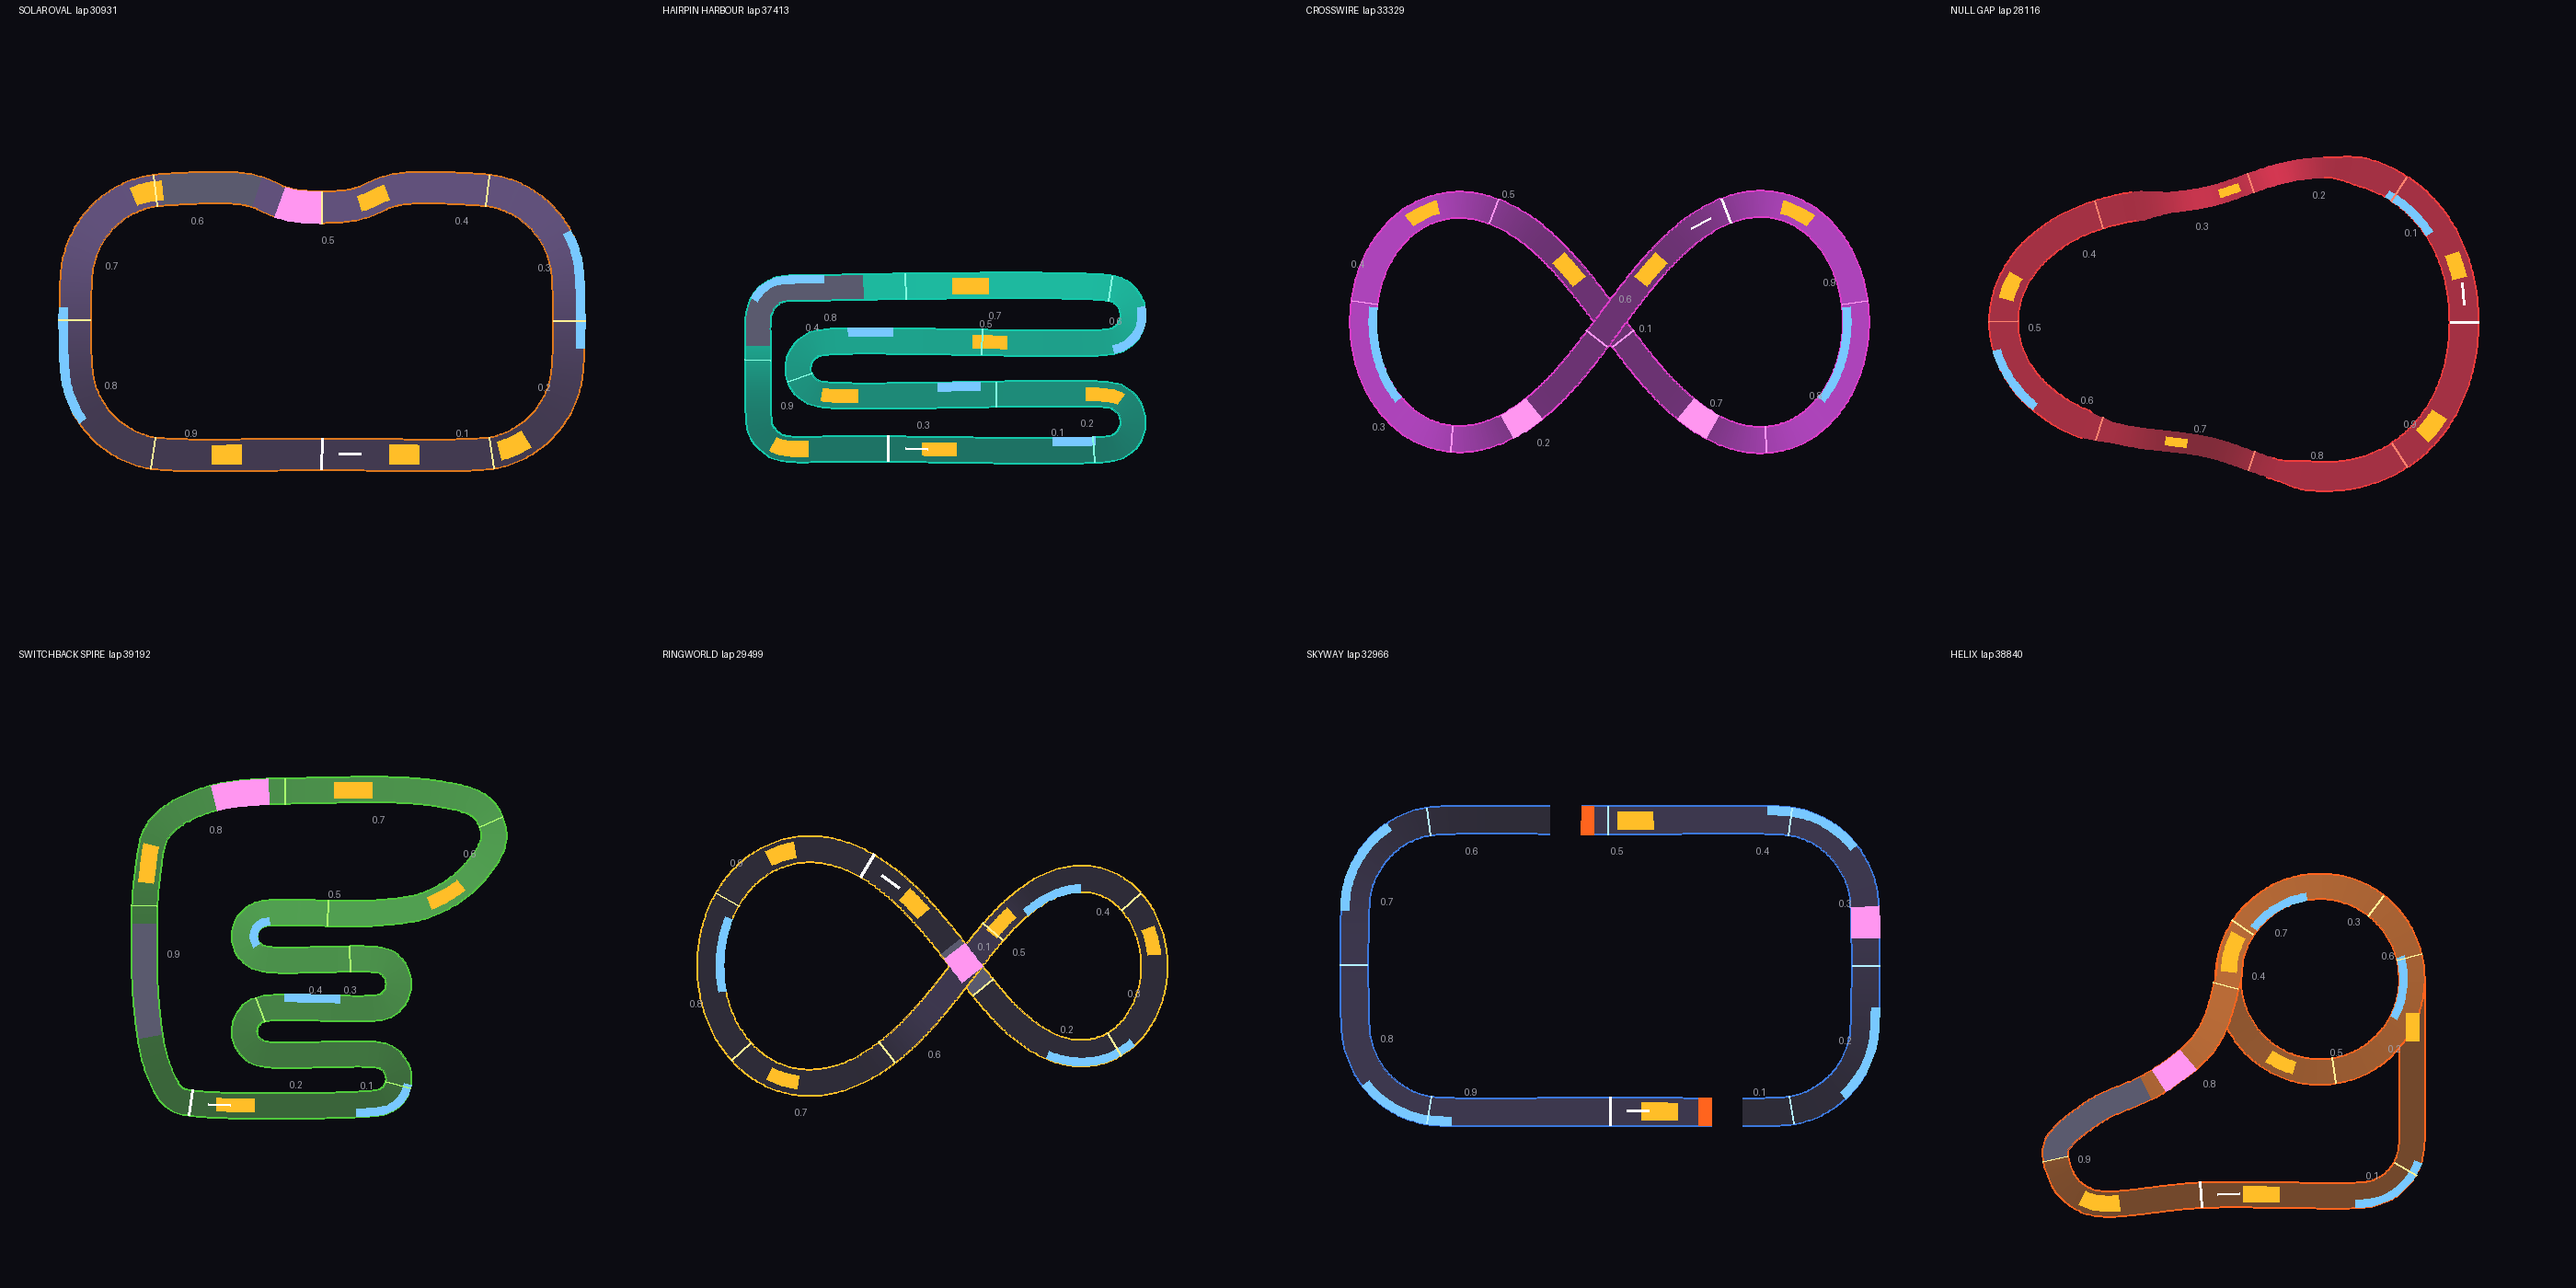
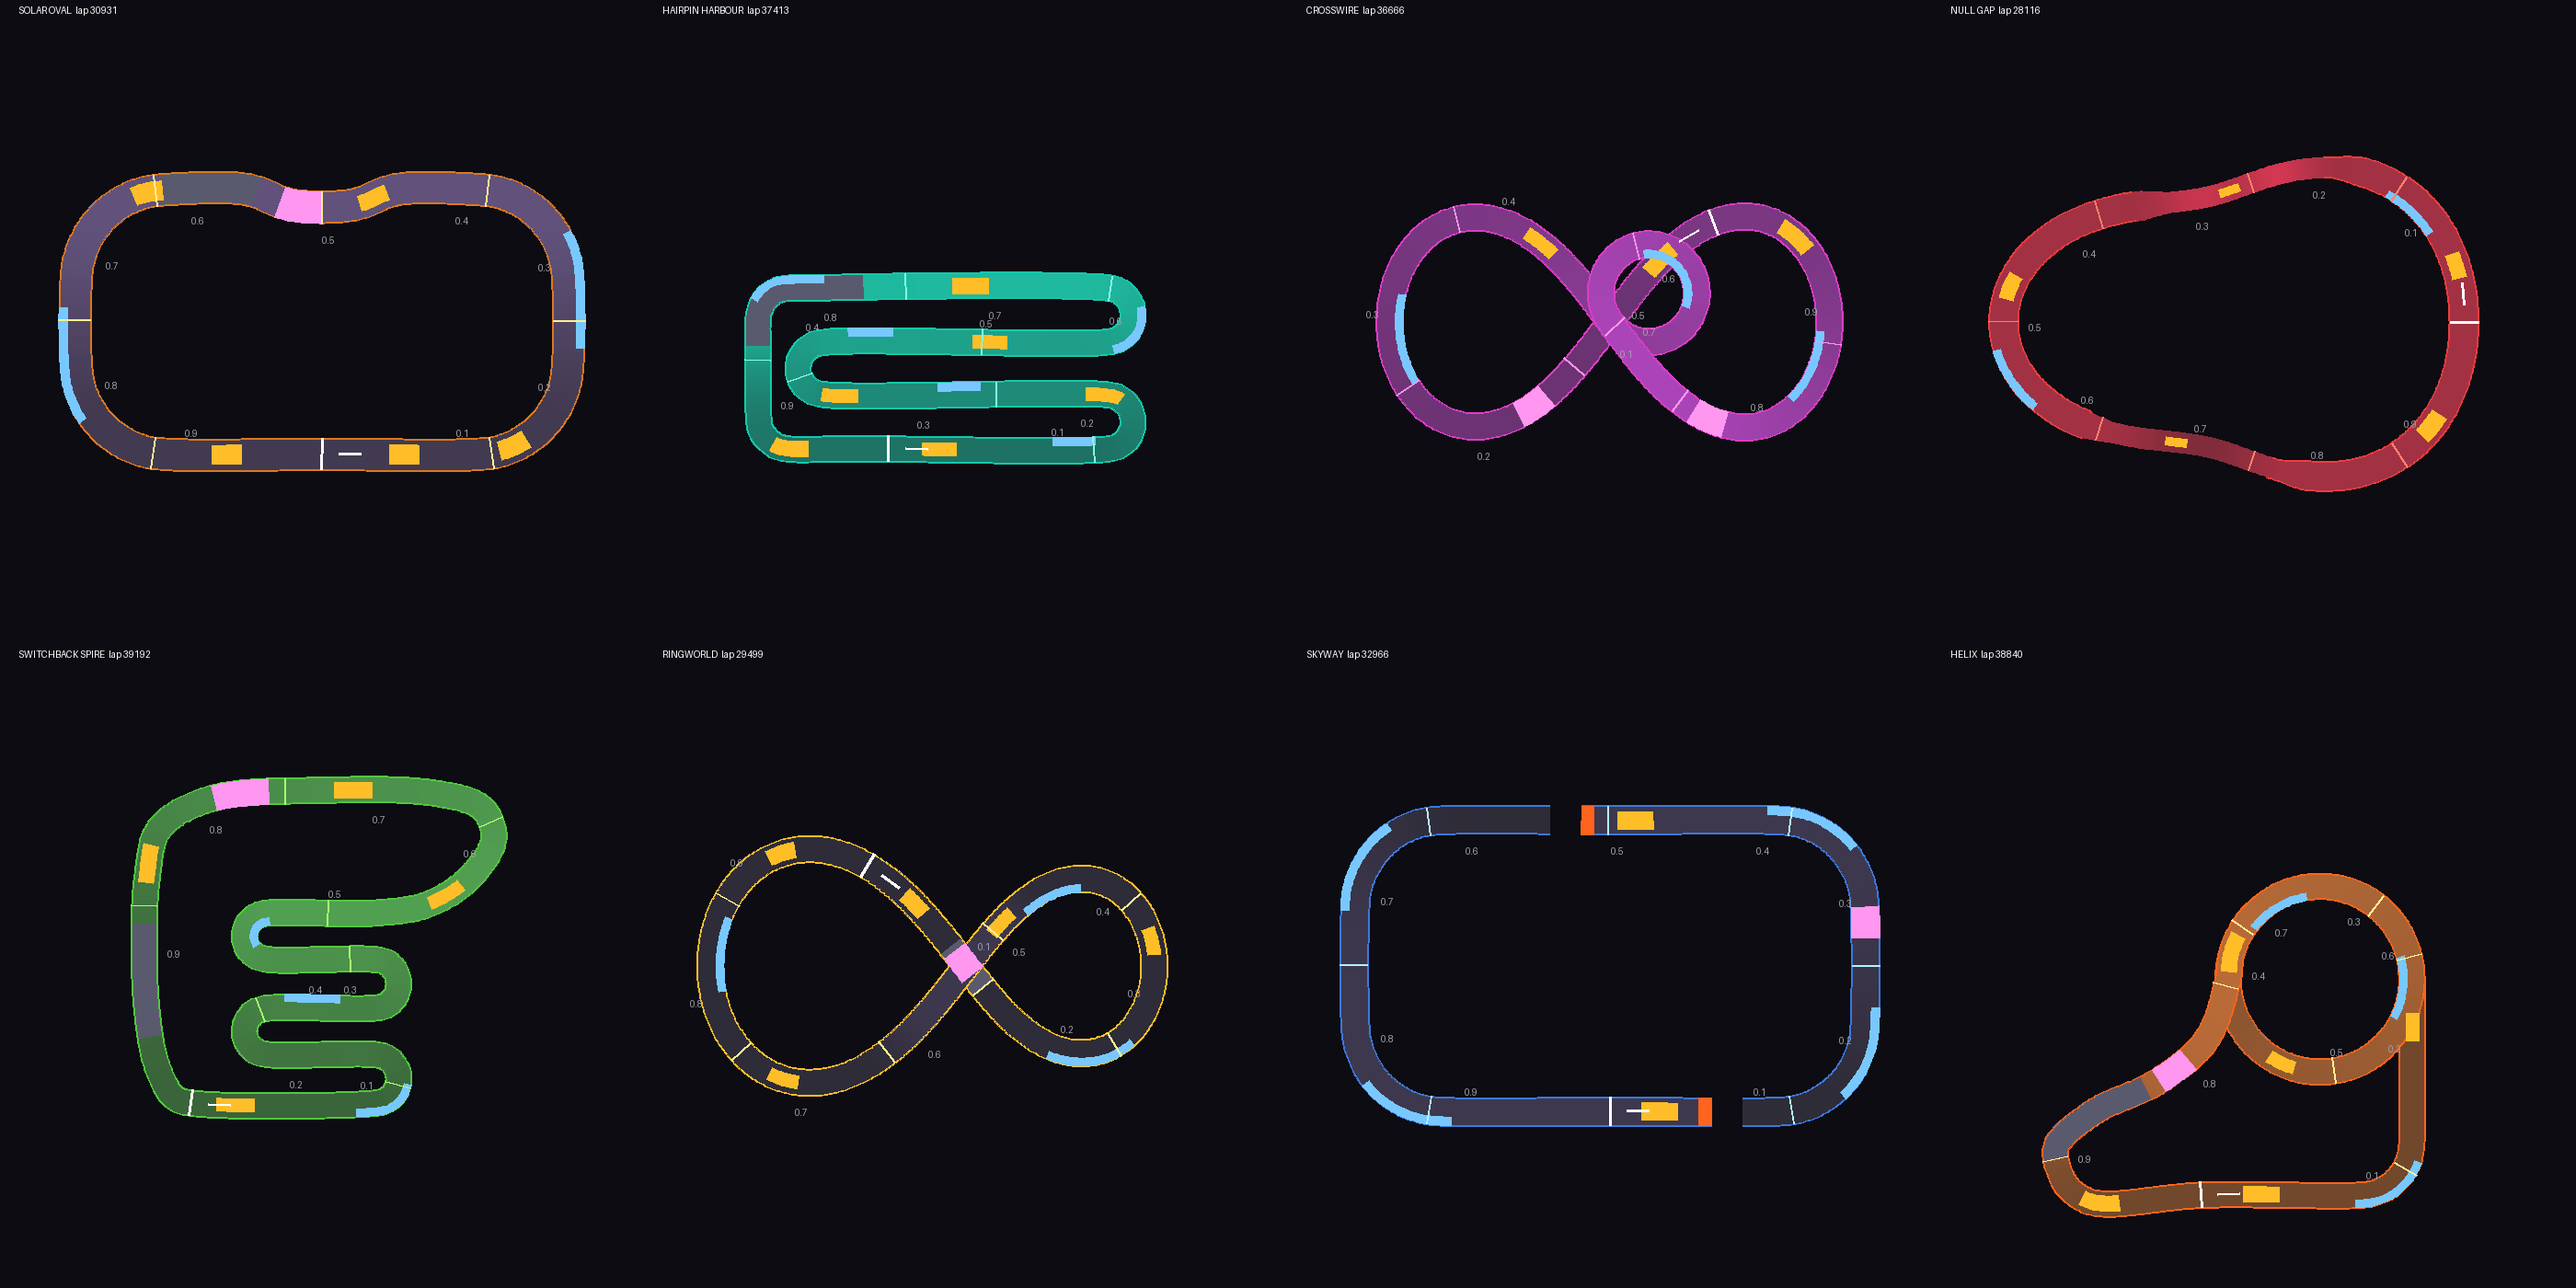
Crosswire: no level crossing - the second pass spirals round the middle
The figure-8's flat crossing z-fought and each road's rails ran across the other. Now the
first pass dives low through the middle and the second climbs into a full banked spiral loop
(radius 1100, +720) round the crossing, so the first pass threads through it (under it twice);
the second comes out over the top of itself and dives round the east lobe to the grid.
Heights come from smooth keyframes that keep every stacked deck 600+ apart; lap 36.7k, 3 laps.
- tracks.py: a level crossing is now always a build error (one road must go over the other)
- results camera rises over any road its circle passes (Crosswire's loop is near its start)
- chase_view.py: EYE / AT free camera for overview shots; mock: track=<id>

Claude-Session: https://claude.ai/code/session_01LHweMRZoWAx6s1kgPwXLL2

Changed region(s): [[0.4971, 0.1229, 0.7457, 0.3686]]

diff --git a/src/cs2/40_players.js b/src/cs2/40_players.js
@@ -166,13 +166,36 @@ function placeFlyover(pk, arena, view, now) {
   pk.camYaw = null;
 }
 
-// results / nothing to follow: a slow circle round the start gantry, high enough to see the field warp out
+// results / nothing to follow: a slow circle round the start gantry, high enough to see the field warp out, rising
+// over any road the circle passes (Crosswire's loop is close to its start). Heights per track, worked out once.
+const OV_R = 1500, OV_N = 64;
+const ovHeights = new Map();
+function overviewHeights(T) {
+  let hs = ovHeights.get(T.id);
+  if (hs) return hs;
+  const p = T.point(0);
+  hs = [];
+  for (let k = 0; k < OV_N; k++) {
+    const a = 2 * Math.PI * k / OV_N, cx = p.x + Math.cos(a) * OV_R, cy = p.y + Math.sin(a) * OV_R;
+    let h = 650;
+    for (let i = 0; i < T.n; i++) if (Math.hypot(T.x[i] - cx, T.y[i] - cy) - T.hw[i] < 500) h = Math.max(h, T.z[i] - p.z + 380);
+    hs.push(h);
+  }
+  // widen the rises a little, then smooth them so the camera eases up and down
+  hs = hs.map((_, k) => Math.max(hs[(k + OV_N - 2) % OV_N], hs[(k + OV_N - 1) % OV_N], hs[k], hs[(k + 1) % OV_N], hs[(k + 2) % OV_N]));
+  for (let pass = 0; pass < 4; pass++) hs = hs.map((v, k) => (hs[(k + OV_N - 1) % OV_N] + 2 * v + hs[(k + 1) % OV_N]) / 4);
+  ovHeights.set(T.id, hs);
+  return hs;
+}
 function placeOverviewCamera(pk, arena, view) {
   if (!live(pk.cam)) return;
   const T = arena.track;
   const p = T.point(0);
   const ang = Instance.GetGameTime() * 0.12;
-  const r = 1500, h = 650;
+  const hs = overviewHeights(T);
+  const f = (((ang / (2 * Math.PI)) % 1) + 1) % 1 * OV_N, k0 = Math.floor(f) % OV_N, w = f - Math.floor(f);
+  const h = hs[k0] + (hs[(k0 + 1) % OV_N] - hs[k0]) * w;
+  const r = OV_R;
   const pos = view.world(p.x + Math.cos(ang) * r, p.y + Math.sin(ang) * r, p.z + h);
   if (pk.camMode !== CustomCameraMode.CONTROLLED) { pk.cam.SetMode(CustomCameraMode.CONTROLLED); pk.camMode = CustomCameraMode.CONTROLLED; }
   pk.cam.Move({ position: pos, angles: { pitch: deg(Math.atan2(h - 250, r)), yaw: deg(ang + Math.PI), roll: 0 } });

diff --git a/tools/trackdefs.py b/tools/trackdefs.py
@@ -95,23 +95,58 @@ TRACKS.append(dict(id='hairpin', title='HAIRPIN HARBOUR', laps=2, theme='hairpin
     gaps=[], tunnels=[(0.775, 0.865)],
     slogans=['HAIRPIN HARBOUR', 'BRAKE LATE', 'DRIFT = CHARGE']))
 
-# 3. Crosswire: a giant figure-8 with a flat crossing in the middle; each lobe climbs to a high banked end.
-cw = []
-a = 5600
-for k in range(48):
-    t = 2 * math.pi * k / 48 + math.pi / 4
+def hermite_heights(cum, keys):
+    """height at each distance in cum from keyframes (distance, height, slope): smooth cubic pieces between them"""
+    out = []
+    for s in cum:
+        z = keys[-1][1]
+        for (s0, z0, m0), (s1, z1, m1) in zip(keys, keys[1:]):
+            if s0 <= s <= s1:
+                h = s1 - s0; t = (s - s0) / h
+                z = ((2 * t ** 3 - 3 * t ** 2 + 1) * z0 + (t ** 3 - 2 * t ** 2 + t) * h * m0 + (-2 * t ** 3 + 3 * t ** 2) * z1
+                     + (t ** 3 - t ** 2) * h * m1)
+                break
+        out.append(z)
+    return out
+
+# 3. Crosswire: a giant figure-8. The first pass through the middle dives low; the second climbs into a full spiral
+# loop round the crossing (the first pass threads through it, twice under it), comes out over the top of itself
+# and dives round the east lobe back to the grid.
+def lem(t, a):
     den = 1 + math.sin(t) ** 2
-    x = a * math.cos(t) / den; y = a * math.sin(t) * math.cos(t) / den * 1.35
-    z = 620 * smoothstep(1200, 4600, abs(x))
-    cw.append((x, y, z, 300))
+    return a * math.cos(t) / den, a * math.sin(t) * math.cos(t) / den * 1.35
+CW_A, CW_R = 5000, 1100          # figure-8 size; loop radius
+CW_H1, CW_HL = 650, 720          # loop height where it starts (over the crossing); how much it climbs in the circle
+CW_ZA, CW_ZS = -100, 250         # the first pass at the crossing; the grid
+(bx0, by0), (bx1, by1) = lem(1.5 * math.pi - 1e-4, CW_A), lem(1.5 * math.pi + 1e-4, CW_A)
+hd = math.atan2(by1 - by0, bx1 - bx0)               # the second pass's heading through the middle (south-east)
+lft = (math.cos(hd + math.pi / 2), math.sin(hd + math.pi / 2))
+O = (CW_R * lft[0], CW_R * lft[1])                  # loop centre: on the second pass's left, so the loop touches the middle
+ph0 = math.atan2(-lft[1], -lft[0])
+cxy = []; mark = {}
+for k in range(48):
+    if k == 6: mark['c1'] = len(cxy)                # first pass through the middle
+    if k == 30:                                     # second pass: the middle, a full left-hand circle round O, the middle
+        mark['c2'] = len(cxy); cxy.append((0.0, 0.0))
+        cxy += [(O[0] + CW_R * math.cos(ph0 + 2 * math.pi * j / 16), O[1] + CW_R * math.sin(ph0 + 2 * math.pi * j / 16)) for j in range(1, 16)]
+        mark['c3'] = len(cxy); cxy.append((0.0, 0.0))
+        continue
+    cxy.append(lem(2 * math.pi * k / 48 + math.pi / 4, CW_A))
+ccum = [0.0]
+for (x0, y0), (x1, y1) in zip(cxy, cxy[1:] + cxy[:1]): ccum.append(ccum[-1] + math.hypot(x1 - x0, y1 - y0))
+CL = ccum.pop()
+s1, s2, s3 = ccum[mark['c1']], ccum[mark['c2']], ccum[mark['c3']]
+m = CW_HL / (s3 - s2)                               # the loop's climb rate; the road climbs into it and out of it as fast,
+cz = hermite_heights(ccum, [                        # so the decks stacked over the middle stay 600+ apart
+    (0, CW_ZS, 0), (400, CW_ZS, 0), (s1 - 350, CW_ZA, 0), (s1 + 350, CW_ZA, 0), (s2, CW_H1, m), (s3, CW_H1 + CW_HL, m),
+    (s3 + 1300, CW_H1 + CW_HL + m * 650, 0), (CL - 1700, CW_ZS, 0), (CL, CW_ZS, 0)])
 TRACKS.append(dict(id='crosswire', title='CROSSWIRE', laps=3, theme='crosswire', bank=20, scenery='city',
-    pts=cw,
-    feats=[('boost', 0.055, 0.075, -0.6, 0.6), ('boost', 0.555, 0.575, -0.6, 0.6),
-           ('charge', 0.30, 0.37, 0.4, 1.0), ('charge', 0.80, 0.87, -1.0, -0.4),
-           ('boost', 0.44, 0.46, -0.5, 0.5), ('boost', 0.94, 0.96, -0.5, 0.5),
-           ('slick', 0.19, 0.21, -1.0, 1.0), ('slick', 0.69, 0.71, -1.0, 1.0)],
-    gaps=[], tunnels=[], crossing=True,
-    slogans=['CROSSWIRE', 'LOOK BOTH WAYS', 'NO BRAKES']))
+    pts=[(x, y, z, 300) for (x, y), z in zip(cxy, cz)],
+    feats=[('boost', 0.03, 0.05, -0.6, 0.6), ('slick', 0.15, 0.17, -1.0, 1.0), ('charge', 0.25, 0.31, 0.4, 1.0),
+           ('boost', 0.42, 0.44, -0.5, 0.5), ('charge', 0.56, 0.62, -1.0, -0.4), ('slick', 0.76, 0.78, -1.0, 1.0),
+           ('charge', 0.83, 0.88, -1.0, -0.4), ('boost', 0.935, 0.955, -0.6, 0.6)],
+    gaps=[], tunnels=[],
+    slogans=['CROSSWIRE', 'THREAD THE LOOP', 'NO BRAKES']))
 
 # 4. Null Gap: a kidney-shaped loop over the void; two long rail-less sections on narrow roads that roll up and
 # down like a roller coaster.

diff --git a/tools/tracks.py b/tools/tracks.py
@@ -113,7 +113,9 @@ def validate(track, S):
         for j in np.where(near2d & (np.abs(dz) < 150))[0]:
             if j < i: continue
             cosang = abs(float((tan[i] * tan[j]).sum()))
-            if cosang < 0.5 and track.get('crossing'): crossings.append((i, j))
+            # a level crossing can't be drawn: the two decks z-fight and each road's rails run across the other
+            # (Crosswire's first test). Put one road over the other, 600+ apart.
+            if cosang < 0.5: problems.append('level crossing between samples %d and %d: one road must go over the other' % (i, j))
             else: problems.append('overlap between samples %d and %d (angle cos %.2f)' % (i, j, cosang))
         if (near2d & (dz > 400)).any(): unders.append(i)
         tight = near2d & (np.abs(dz) >= 150) & (np.abs(dz) < 600)

diff --git a/preview/chase_view.py b/preview/chase_view.py
@@ -74,6 +74,12 @@ if PRESET == 'fly':
     look = math.atan2(qy - py, qx - px); pt = math.atan2(h - 40, 900)
     fwd = np.array([math.cos(look) * math.cos(pt), math.sin(look) * math.cos(pt), -math.sin(pt)])
     right = np.cross(fwd, [0, 0, 1]); right /= np.linalg.norm(right); upv = np.cross(right, fwd)
+if os.environ.get('EYE'):
+    # a free camera for overview shots: EYE=x,y,z AT=x,y,z (track space)
+    cam = np.array([float(v) for v in os.environ['EYE'].split(',')])
+    at = np.array([float(v) for v in os.environ.get('AT', '0,0,0').split(',')])
+    fwd = (at - cam) / np.linalg.norm(at - cam)
+    right = np.cross(fwd, [0, 0, 1]); right /= np.linalg.norm(right); upv = np.cross(right, fwd)
 f = (W / 2) / math.tan(math.radians(FOV / 2))
 
 vmdl = os.path.join(OUT, 'models/spr/track/%s.vmdl' % TID)

diff --git a/docs/DESIGN.md b/docs/DESIGN.md
@@ -229,7 +229,7 @@ screen, centre text stacked, the bars squashed, no car cards):
 |---|---|---|---|---|
 | Solar Oval | 30.9k | 3 | pixel city at sunset | a huge speedway; the east bend climbs onto an elevated back straight with a chicane that ends in a tube, the west bend dives home |
 | Hairpin Harbour | 37.4k | 2 | teal city | four long straights joined by banked hairpins, climbing a terrace each time, then down through the harbour tube |
-| Crosswire | 33.3k | 3 | neon city | a giant figure-8 with a flat crossing; each lobe climbs to a high banked end |
+| Crosswire | 36.7k | 3 | neon city | a giant figure-8: the first pass dives low through the middle; the second climbs into a full banked spiral loop round the crossing (the first pass threads through it, twice underneath), comes out over the top of itself and dives round the east lobe to the grid |
 | Null Gap | 28.1k | 3 | asteroid belt | two long narrow rail-less sections over the void that roll up and down like a coaster |
 | Switchback Spire | 39.2k | 2 | crystal spikes | four switchbacks up to 1200 units, a long banked sweep, then a dive through a tube |
 | Ringworld | 29.5k | 3 | giant rings, asteroids | a figure-8; one pass is a bridge 920 up, the other runs under it through a tube |

diff --git a/docs/TESTING.md b/docs/TESTING.md
@@ -131,6 +131,12 @@ Rebuild fully after copying the files (`disconnect`, then load the map again) so
 - **The Pulse** (the wave that sweeps from the back of the field to the front each time the leader starts a new
   lap, topping up everyone's charge): now a low pixel laser fence
   with chevrons on the road under it, instead of a tall see-through sheet that washed out the screen.
+- **Crosswire's crossing** (the pink figure-8; `preview/chase_crosswire.png`). No level crossing any more (the two
+  decks z-fought and each road's rails ran across the other): the second pass climbs into a full banked spiral loop
+  round the middle, and the first pass dives under it twice, threading through the loop just after the start.
+  Check: no flicker or rails across the road anywhere; the camera stays clear under the decks (try `!cam far`);
+  bots get round the loop; the results camera rises over the loop as it circles the start. This one changes the
+  map file (the track model and its vis hints), so compile the map in Hammer after copying.
 
 ## D. Things to look at and tune
 
